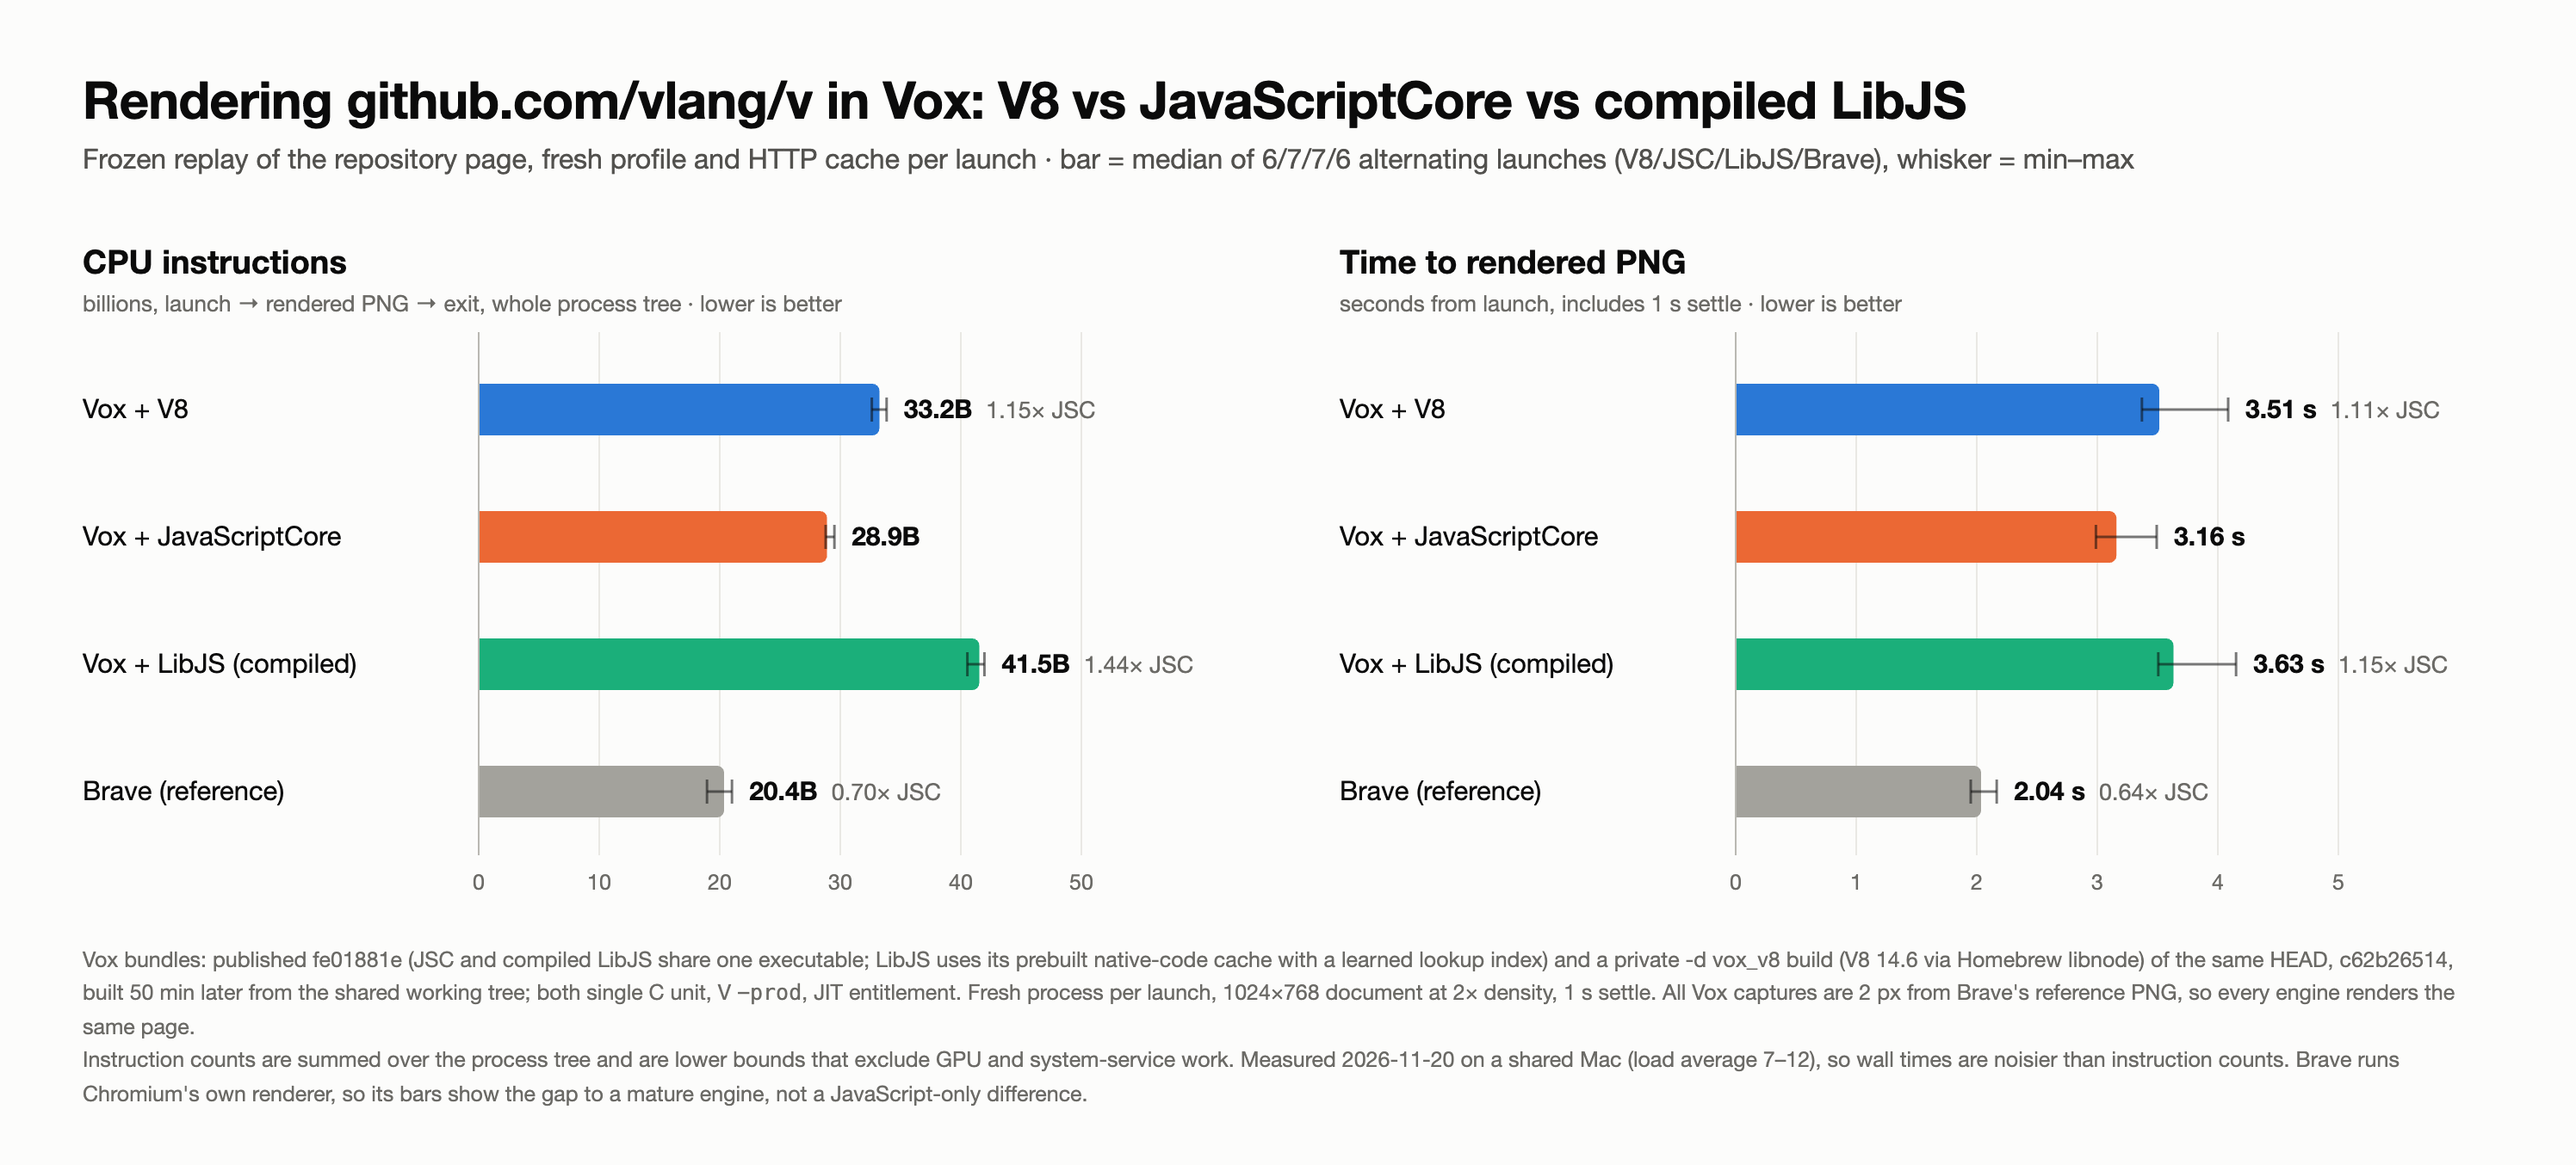
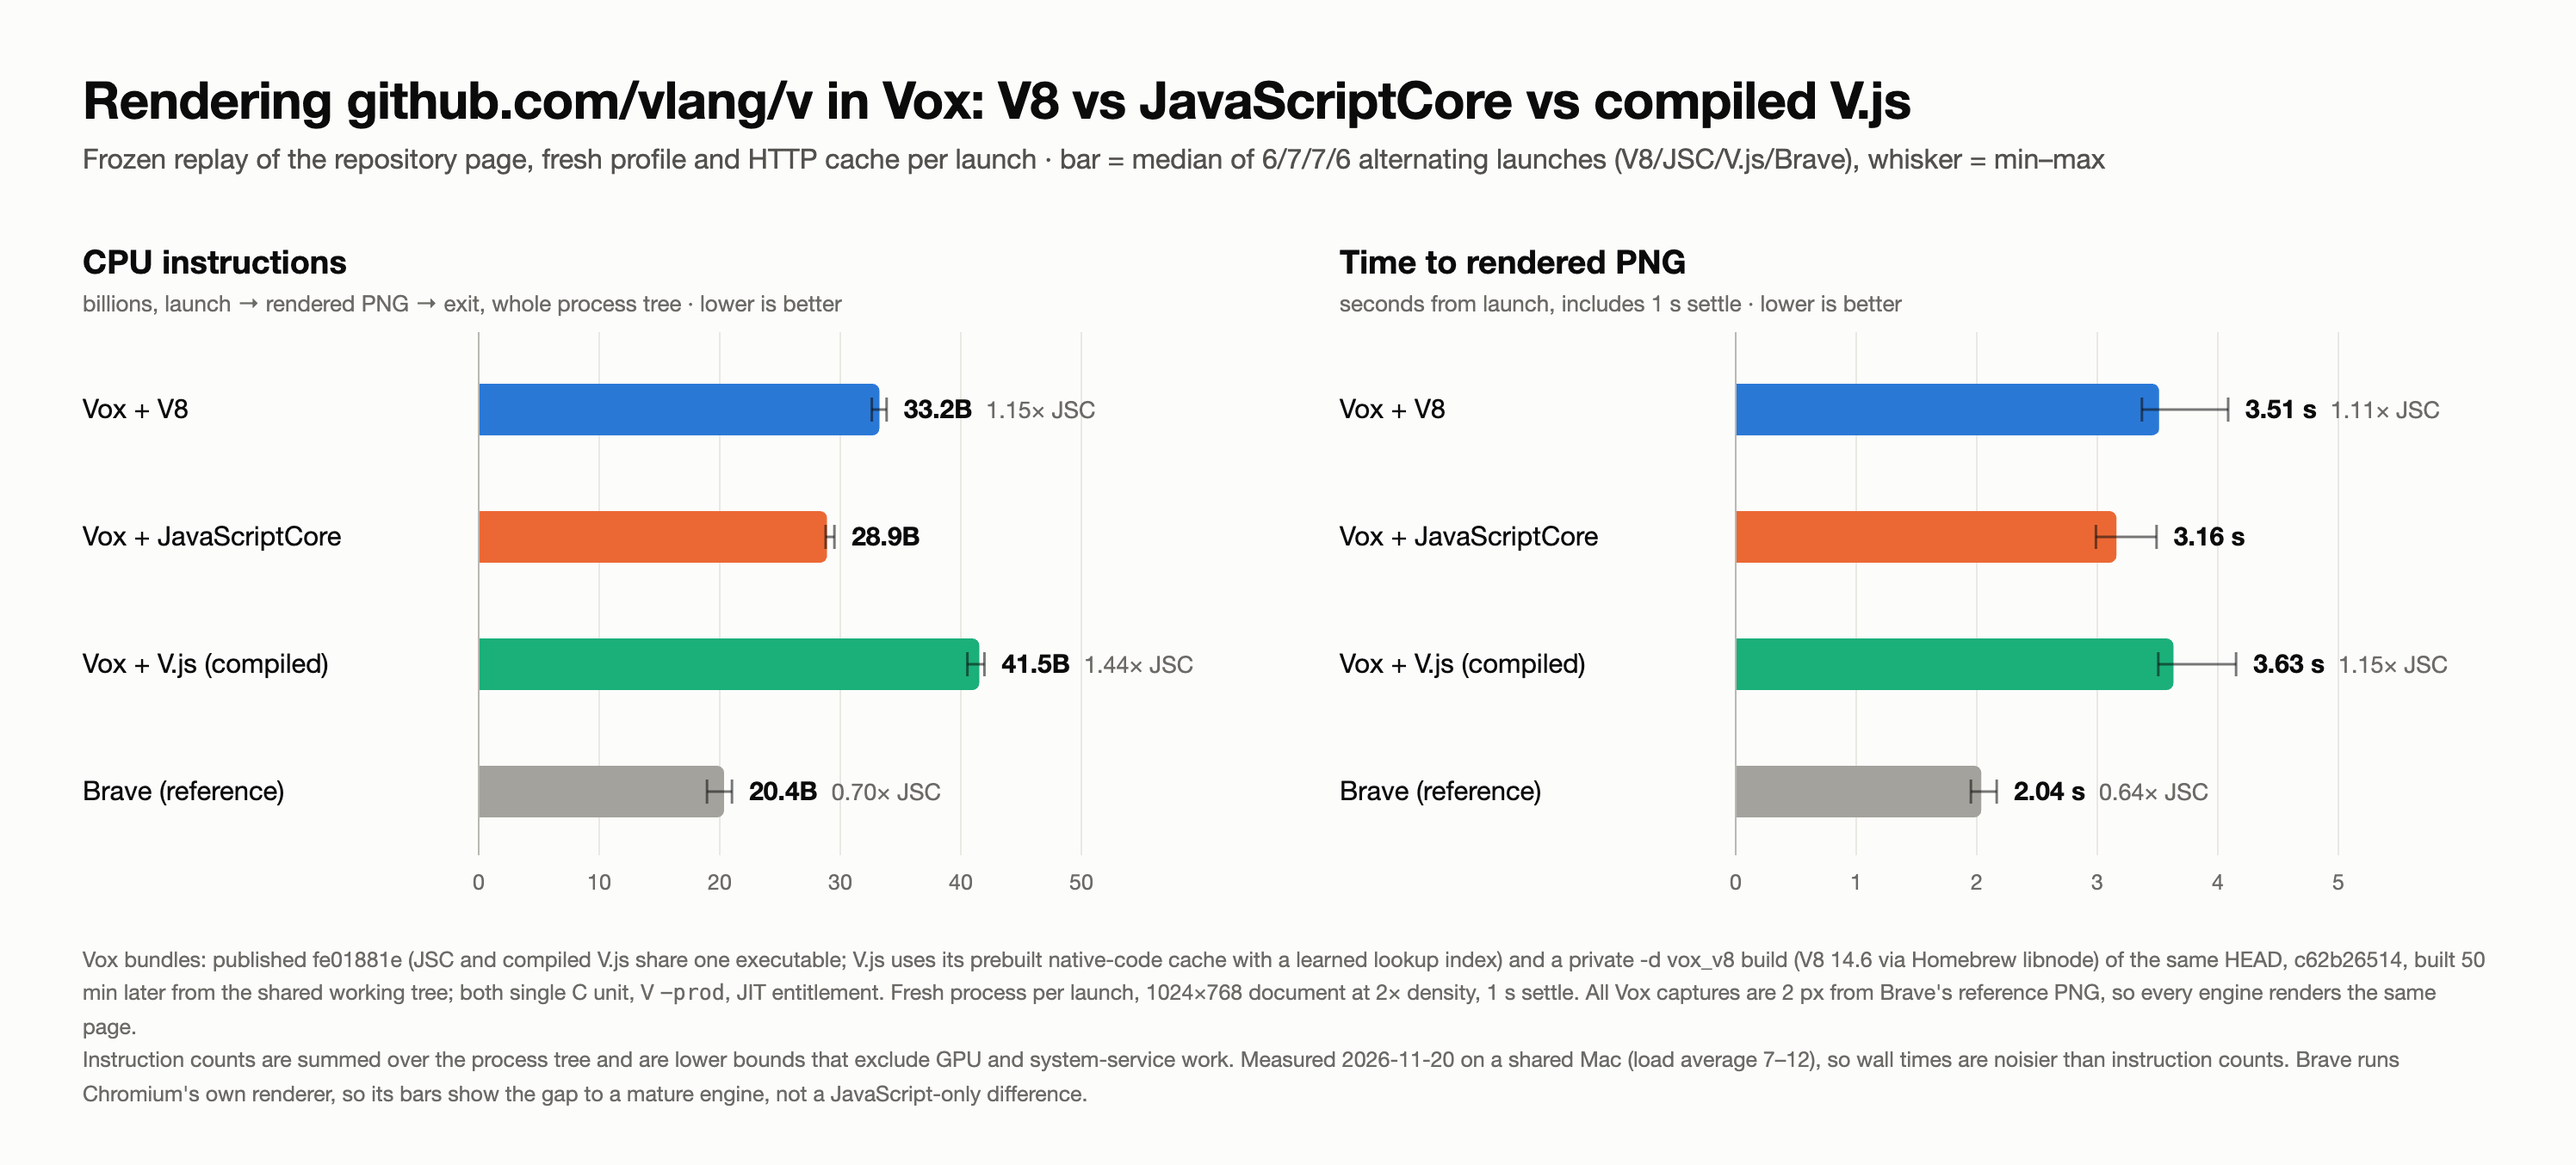
Label the compiled engine V.js in the github.com/vlang/v engine chart

diff --git a/docs/GITHUB_VLANG_JS_ENGINES.md b/docs/GITHUB_VLANG_JS_ENGINES.md
@@ -1,4 +1,4 @@
-# github.com/vlang/v: Vox with V8, JavaScriptCore and compiled LibJS
+# github.com/vlang/v: Vox with V8, JavaScriptCore and compiled V.js
 
 ![Vox engine comparison on github.com/vlang/v](images/github-vlang-js-engines-20261120.png)
 
@@ -13,16 +13,16 @@ process exit. Engine order alternated each round.
 |---|---|---|---|
 | Vox + V8 | 6 | 33.24B (32.62–33.84) | 3.51 s (3.37–4.09) |
 | Vox + JavaScriptCore | 7 | 28.89B (28.79–29.51) | 3.16 s (2.99–3.49) |
-| Vox + LibJS (compiled) | 7 | 41.53B (40.55–41.96) | 3.63 s (3.51–4.15) |
+| Vox + V.js (compiled) | 7 | 41.53B (40.55–41.96) | 3.63 s (3.51–4.15) |
 | Brave (reference) | 6 | 20.35B (18.94–21.01) | 2.04 s (1.95–2.17) |
 
 Relative to Vox + JavaScriptCore, V8 needs 1.15× the instructions and compiled
-LibJS 1.44×. Brave's V8 `ScriptDuration` median was 194 ms.
+V.js 1.44×. Brave's V8 `ScriptDuration` median was 194 ms.
 
 ## Builds
 
-- JSC and LibJS share the published bundle `fe01881e…` (HEAD `c62b26514`,
-  `-b c`, a single C unit, V `-prod`). LibJS used the grouped native-code
+- JSC and V.js (LibJS) share the published bundle `fe01881e…` (HEAD `c62b26514`,
+  `-b c`, a single C unit, V `-prod`). V.js used the grouped native-code
   cache prepared for that executable by `tools/prepare_github_grouped_cache.py`,
   with its lookup index learned in three untimed visits and then read-only.
 - V8 used a private `VOX_V8=1` build of the same HEAD, built about 50 minutes
